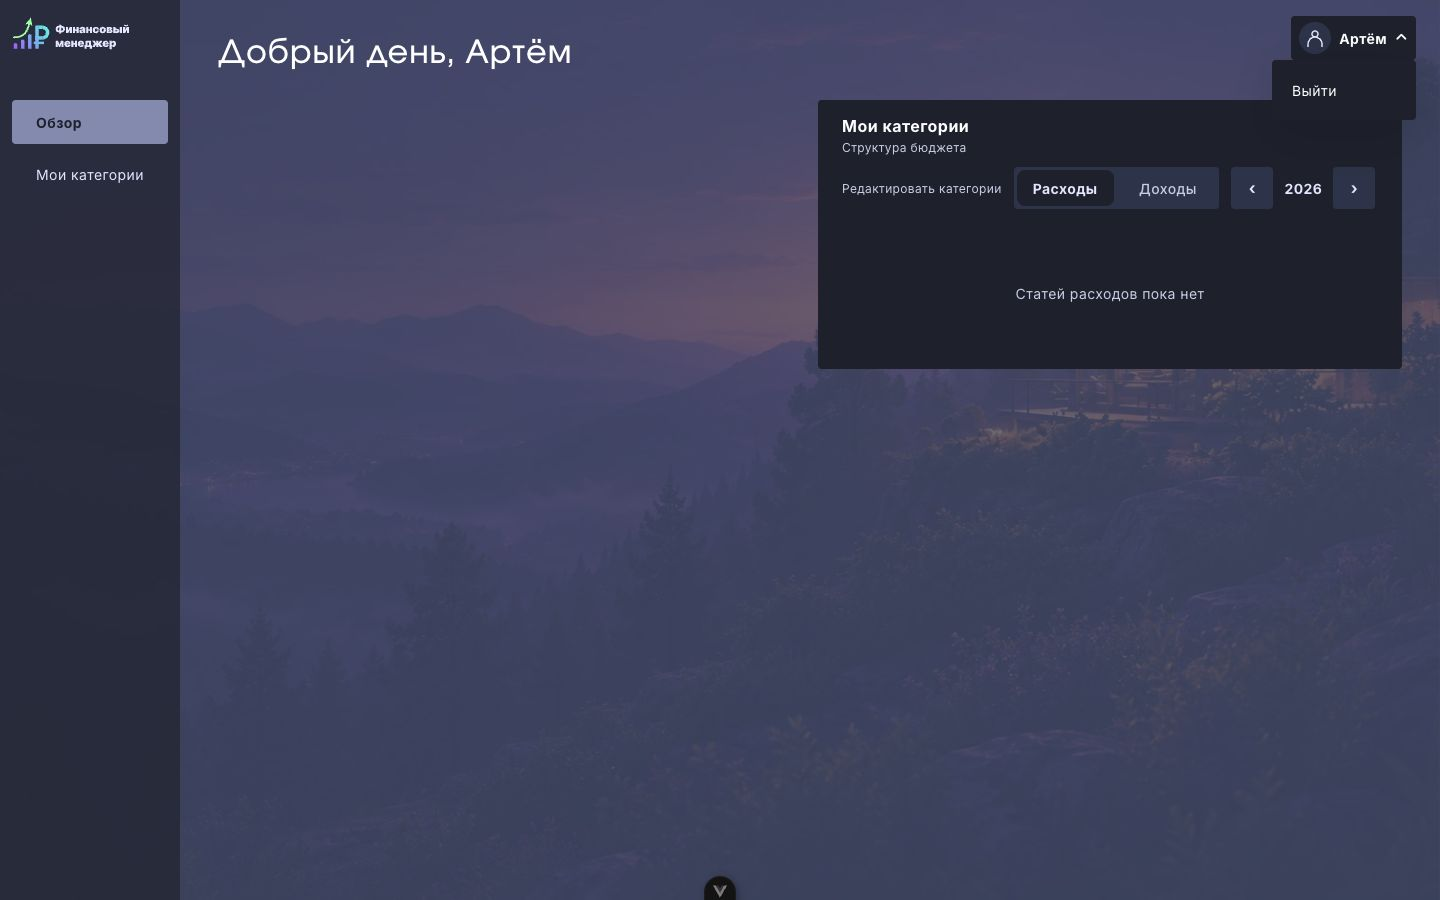
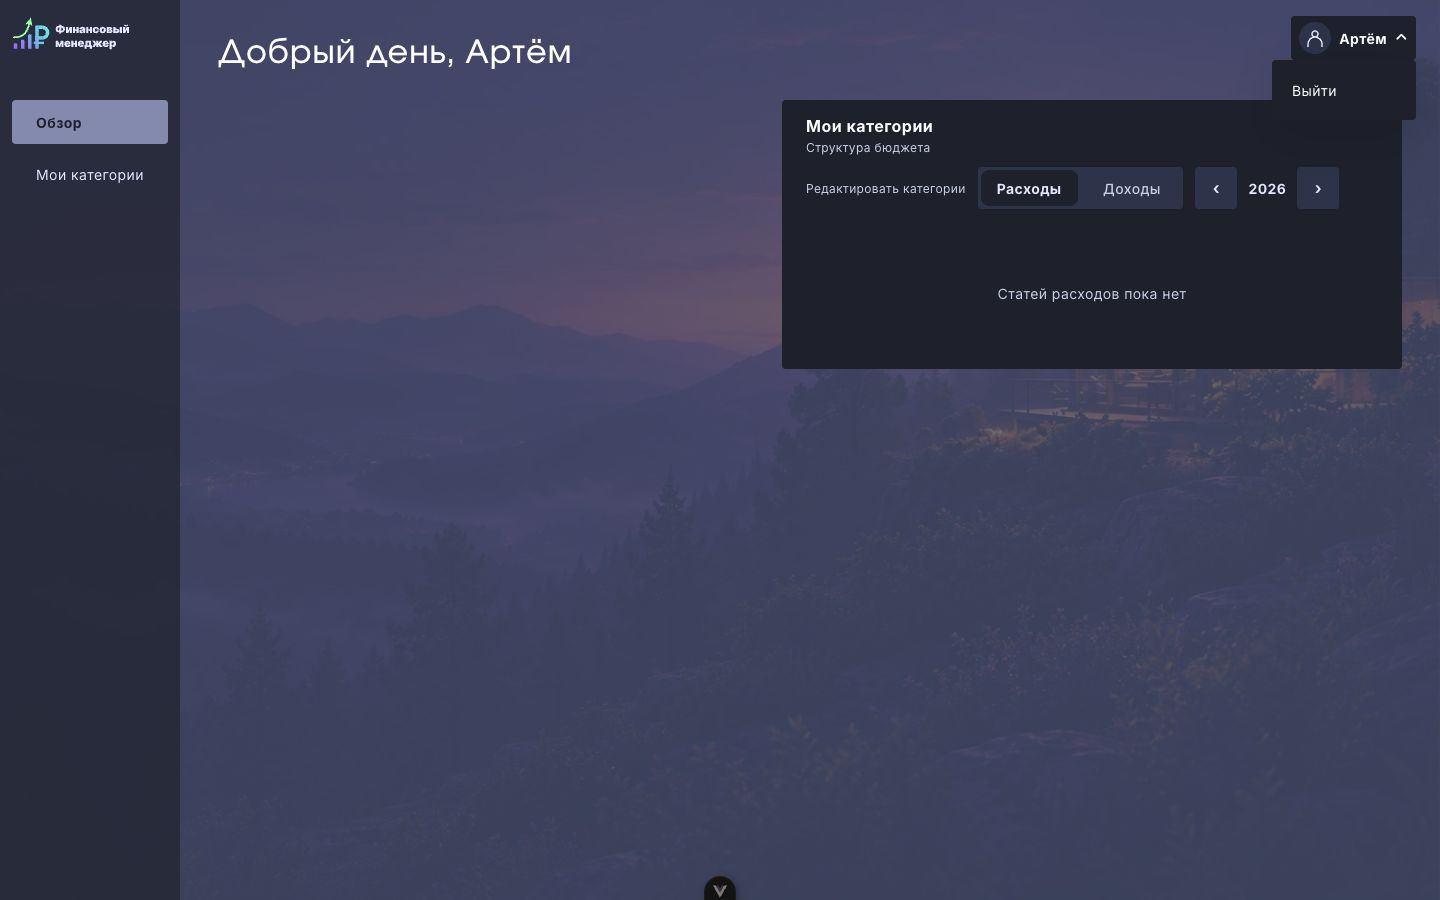
Preserve readable month width in overview columns
Refs PPPoE15/fm-auto-dev#57

Changed region(s): [[0.5312, 0.0933, 0.9688, 0.4356], [0.6875, 0.3111, 0.8438, 0.3422]]

diff --git a/dev/shell-preview.ts b/dev/shell-preview.ts
@@ -1,4 +1,4 @@
-// Изолированный стенд: пустые ответы API, без обращения к backend и записи токена в storage.
+// Изолированный стенд: тестовые ответы API, без обращения к backend и записи токена в storage.
 import { createApp } from 'vue'
 import { createPinia } from 'pinia'
 import { createMemoryHistory, RouterView } from 'vue-router'
@@ -7,11 +7,24 @@ import { createAppRouter } from '../src/router'
 import { useSessionStore } from '../src/stores/session'
 import '../src/assets/main.css'
 
+const params = new URLSearchParams(location.search)
+const months = Array.from({ length: 12 }, (_, index) => ({ month: index + 1, fact: 12345 }))
+const rows = params.has('filled')
+  ? [
+      {
+        category: { uid: 'preview-category', name: 'Длинное название тестовой категории' },
+        money_plan: 15000,
+        average: 12345,
+        months,
+      },
+    ]
+  : []
+
 const pinia = createPinia()
 const session = useSessionStore(pinia)
 session.user = {
   uid: 'preview',
-  name: new URLSearchParams(location.search).get('name') ?? 'Артём',
+  name: params.get('name') ?? 'Артём',
   email: 'preview@example.com',
 }
 http.defaults.adapter = async (config) => ({
@@ -24,8 +37,12 @@ http.defaults.adapter = async (config) => ({
       ? {
           year: 2026,
           category_type: config.params.category_type,
-          rows: [],
-          total: { money_plan: null, average: null, months: [] },
+          rows,
+          total: {
+            money_plan: rows.length ? 15000 : null,
+            average: rows.length ? 12345 : null,
+            months: rows.length ? months : [],
+          },
         }
       : { amount: 0 },
 })

diff --git a/src/views/HomeView.vue b/src/views/HomeView.vue
@@ -20,7 +20,8 @@ const greeting = computed(() =>
     </h1>
     <!-- FM-50 добавит карточки доходов/расходов в левую колонку. Пока реальные данные есть
          только у категорий; суммы, график и добавление виджета не имитируются. -->
-    <div class="mt-6 grid min-w-0 gap-4 xl:grid-cols-2">
+    <!-- NOTE(FM-57): минимум 620px оставляет целый месяц рядом с 453px закреплённых колонок. -->
+    <div class="mt-6 grid min-w-0 gap-4 xl:grid-cols-[minmax(0,1fr)_minmax(620px,1fr)]">
       <div
         id="categories"
         tabindex="-1"

diff --git a/docs/app-shell.md b/docs/app-shell.md
@@ -10,7 +10,7 @@
 
 ## Адаптация и проверка
 
-В Figma нет узких вариантов. Пользователь согласовал: ниже 1024px логотип и профиль сверху, навигация под ними; доступные блоки в одну колонку. Колонки контента разделяются от 1280px, чтобы таблица не сжималась на промежуточных ширинах.
+В Figma нет узких вариантов. Пользователь согласовал: ниже 1024px логотип и профиль сверху, навигация под ними; доступные блоки в одну колонку. Колонки контента разделяются от 1280px; правая не уже 620px, чтобы закреплённые столбцы не перекрывали месяцы.
 
 14.10.2026: Chrome, 375×812, 768×1024 и 1440×900 CSS-px. На всех ширинах `scrollWidth === innerWidth`, элементы доступны. Проверены открытие профиля с клавиатуры, Escape с возвратом фокуса и Tab без ловушки. Снимки сделаны на `/dev/shell-preview.html`: это отдельный dev-стенд с пустыми ответами API, не production-вход и не демонстрационные данные в приложении. Выход и очистка сессии дополнительно покрыты интеграционными тестами с настоящими router guards.
 
@@ -22,3 +22,16 @@
 | 375 CSS-px | 768 CSS-px |
 | --- | --- |
 | ![375](images/fm-57/shell-375.jpg) | ![768](images/fm-57/shell-768.jpg) |
+
+## Исправление по ревью
+
+В заполненном состоянии при 1280px исходные равные колонки оставляли месяцу лишь 26px при ширине ячейки 131px. Браузерная проверка `scroll.clientWidth − сумма ширин первых трёх th >= ширина четвёртого th` сначала вернула false, после минимальной ширины правой колонки 620px — true (142px >= 131px). Это регрессия контейнера FM-57; внутренности таблицы FM-58 не менялись. NOTE(FM-57) в HomeView объясняет минимум.
+
+Стенд `/dev/shell-preview.html?filled` предоставляет одну явно тестовую строку для проверки. Заполненное состояние проверено на 375, 768, 1280 и 1440px: горизонтальная прокрутка остаётся внутри таблицы. Длинное имя проверено на 375px — приветствие переносится, профиль сокращается без переполнения.
+
+![Заполненный обзор 1280](images/fm-57/shell-filled-1280.jpg)
+![Заполненный обзор 1440](images/fm-57/shell-filled-1440.jpg)
+
+| 375 CSS-px | 768 CSS-px |
+| --- | --- |
+| ![375](images/fm-57/shell-filled-375.jpg) | ![768](images/fm-57/shell-filled-768.jpg) |
